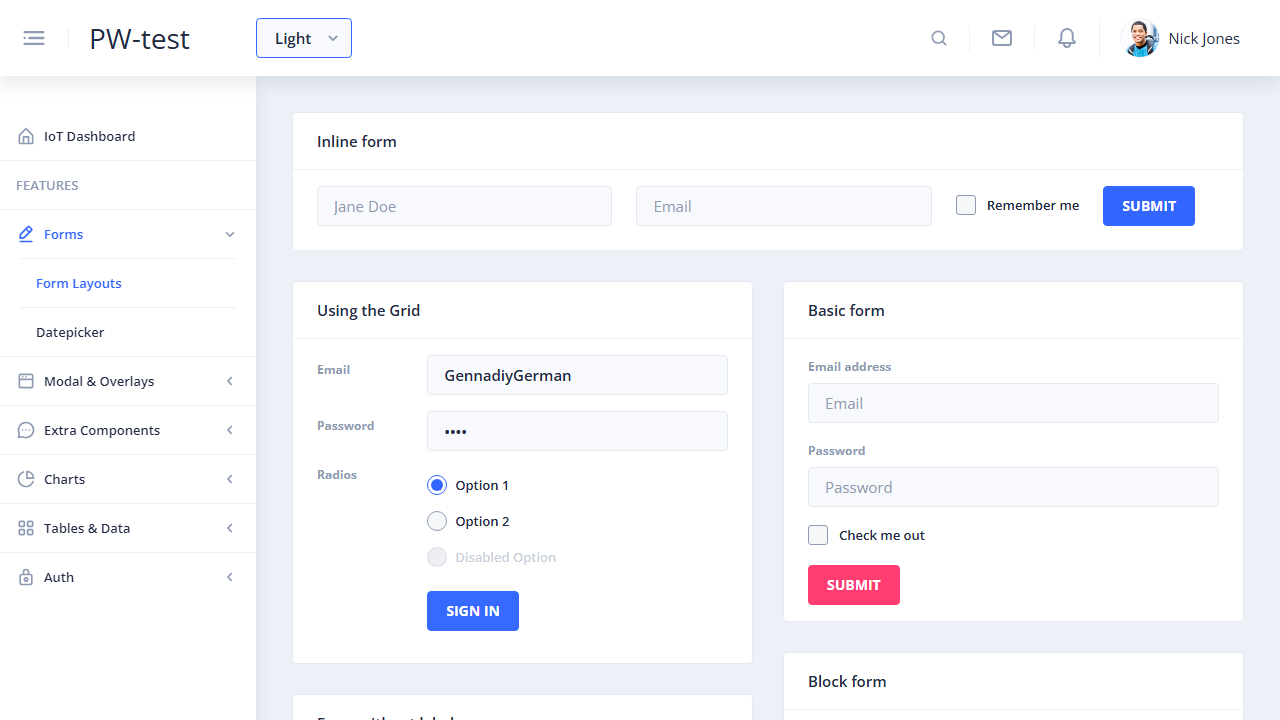
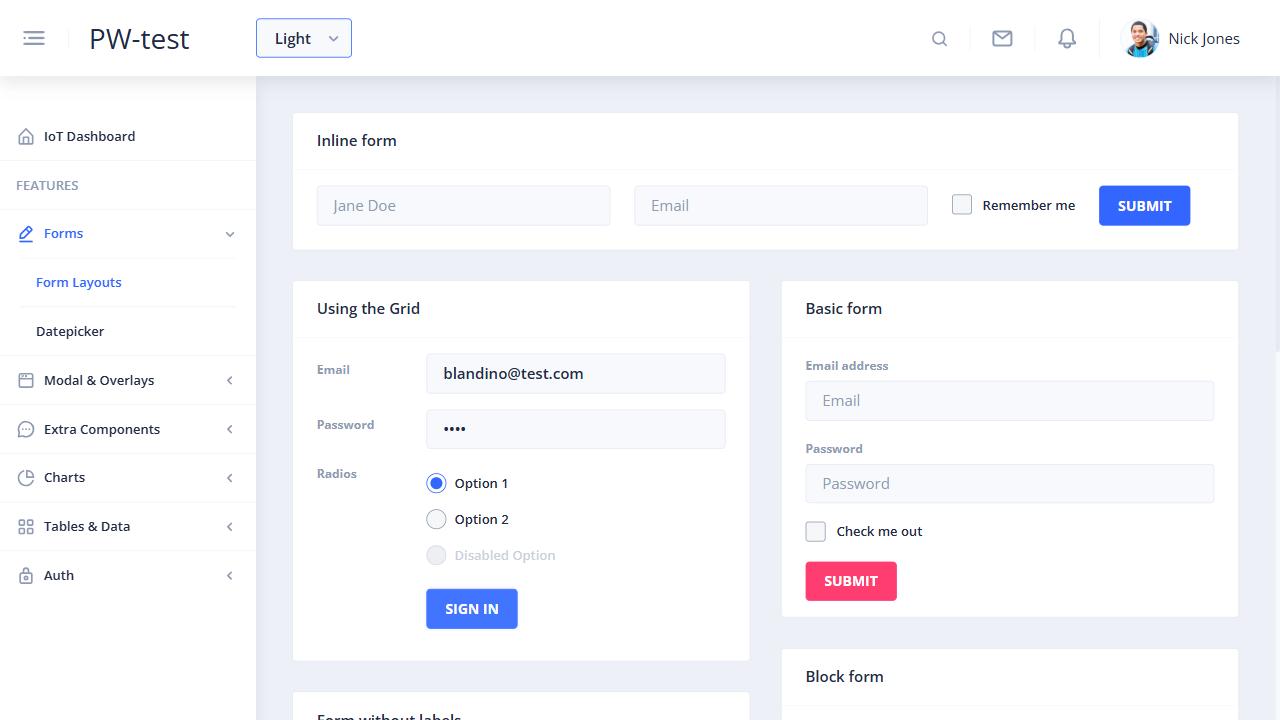
Testing actions

diff --git a/tests/usePageObject.spec.ts b/tests/usePageObject.spec.ts
@@ -1,12 +1,13 @@
 import {test, expect} from '@playwright/test';
 import {PageManager} from '../page-object/pageManager';
 import { faker } from '@faker-js/faker';
+import { env } from 'process';
 
 test.beforeEach(async({page})=>{
     await page.goto('/')
   })
 
-  test('navigate to form page', { tag: ['@smoke', '@regression'] }, async ({page}) => {
+  test.only('navigate to form page', { tag: ['@smoke', '@regression'] }, async ({page}) => {
     const pm = new PageManager(page)
     await pm.navigateTo().formLayoutsPage()
     await pm.navigateTo().datePickerPage()
@@ -21,7 +22,7 @@ test.beforeEach(async({page})=>{
     const randomEmail = `${randomFullName.replace(' ', '')}${faker.number.int(1000)}@test.com `
 
     await pm.navigateTo().formLayoutsPage()
-    await pm.onFormLayoutsPage().submitUsingTheGridFormWitheCredentialsAndSelectoption(process.env.USERNAME,process.env.PASSWORD, "Option 1")
+    await pm.onFormLayoutsPage().submitUsingTheGridFormWitheCredentialsAndSelectoption(env.TESTUSERNAME,env.TESTPASSWORD, "Option 1")
     await page.screenshot({path: 'screenshots/formLayoutsPage.png'})
     //convert image to buffer
     /*const buffer = await page.screenshot()
